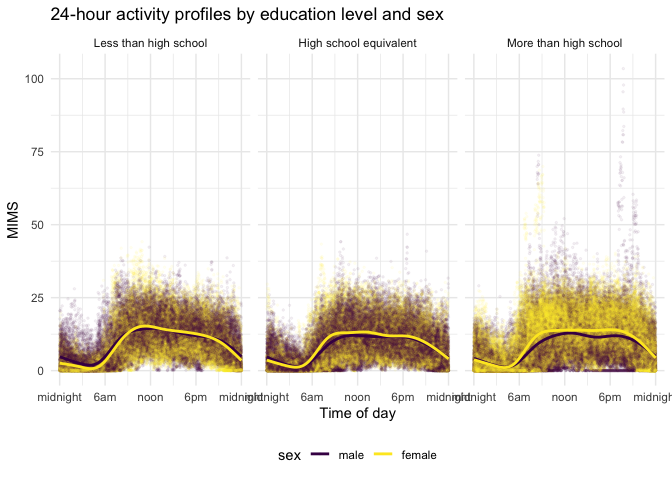
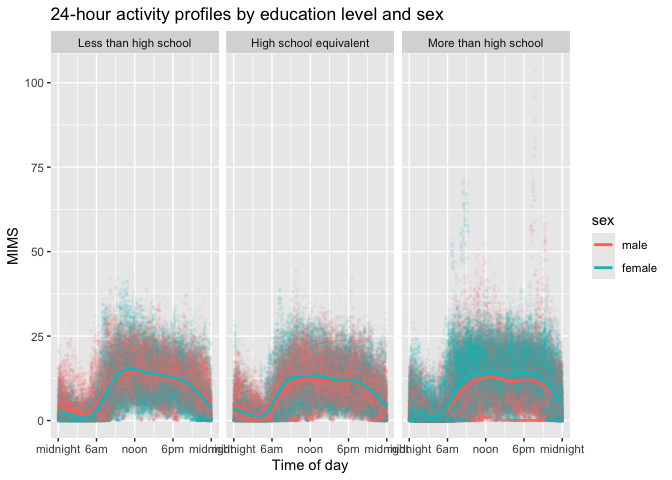
edits

diff --git a/p8105_hw3_anh2179.md b/p8105_hw3_anh2179.md
@@ -8,16 +8,6 @@ library(p8105.datasets)
 library(ggridges)
 library(patchwork)
 library(hexbin)
-
-theme_set(theme_minimal() + theme(legend.position = "bottom"))
-
-options(
-  ggplot2.continuous.colour = "viridis",
-  ggplot2.continuous.fill = "viridis"
-)
-
-scale_colour_discrete = scale_colour_viridis_d
-scale_fill_discrete = scale_fill_viridis_d
 ```
 
 ## Problem 1
